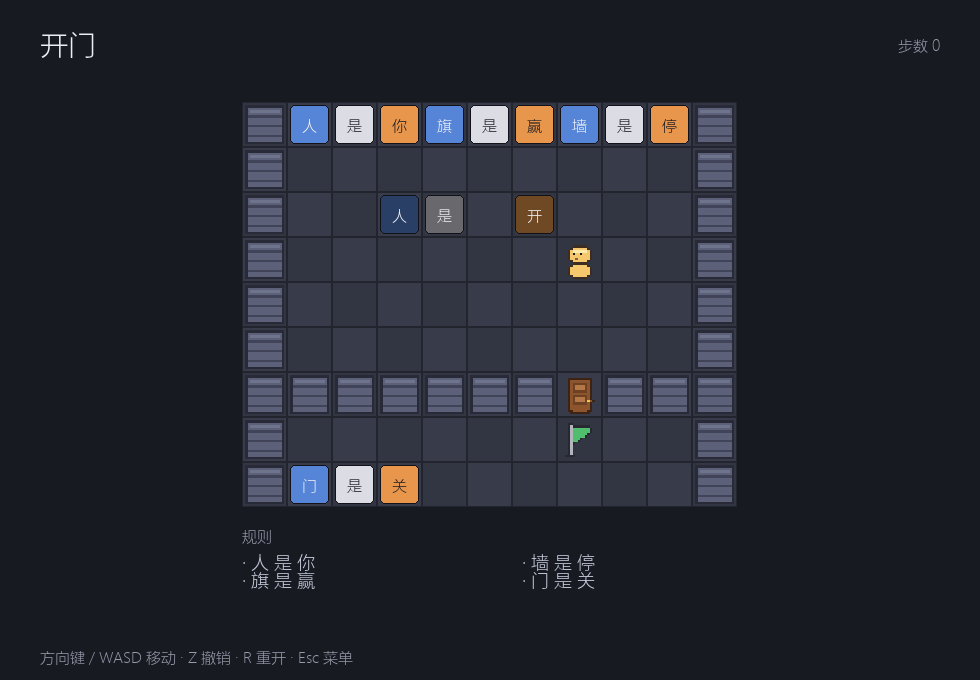
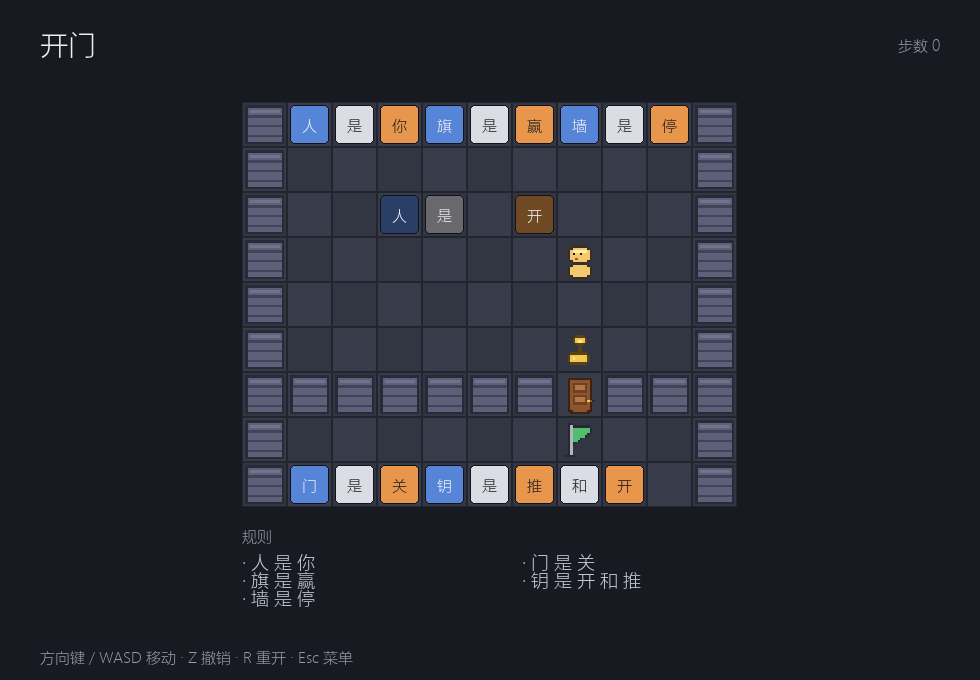
feat: 开与关物件互相抵消

diff --git a/tests/test_doors_teleport.py b/tests/test_doors_teleport.py
@@ -50,17 +50,17 @@ def test_shut_blocks_you_without_open():
     assert not world.can_undo
 
 
-def test_open_you_enters_and_destroys_shut():
+def test_open_you_and_shut_cancel_each_other():
     words = DOOR_RULES + rule(2, "人", "开")
     world = make_world(words=words, objects=[(4, 1, "baba"), (4, 2, "door")])
 
     result = try_move(world, 0, 1)
 
-    assert result.moved and not result.lost
-    assert ids_at(world, 4, 2) == ["baba"]
+    assert result.moved and result.lost
+    assert ids_at(world, 4, 2) == []
 
 
-def test_pushed_open_key_opens_shut():
+def test_pushed_open_key_and_shut_cancel_each_other():
     words = rule(0, "人", "你") + rule2(1, "钥", "推", "开") + rule(2, "门", "关")
     world = make_world(
         words=words, objects=[(4, 1, "baba"), (4, 2, "key"), (4, 3, "door")]
@@ -70,7 +70,7 @@ def test_pushed_open_key_opens_shut():
 
     assert result.moved and not result.lost
     assert world.get(4, 2).id == "baba"
-    assert ids_at(world, 4, 3) == ["key"]
+    assert ids_at(world, 4, 3) == []
 
 
 def test_pushed_box_without_open_stops_at_shut():
@@ -88,7 +88,7 @@ def test_pushed_box_without_open_stops_at_shut():
     assert not world.can_undo
 
 
-def test_open_and_shut_object_does_not_self_destruct():
+def test_open_key_cancels_with_open_shut_door():
     words = (
         rule(0, "人", "你")
         + rule2(1, "钥", "推", "开")
@@ -101,7 +101,7 @@ def test_open_and_shut_object_does_not_self_destruct():
     result = try_move(world, 0, 1)
 
     assert result.moved and not result.lost
-    assert ids_at(world, 4, 3) == ["door", "key"]
+    assert ids_at(world, 4, 3) == []
 
 
 def test_open_you_cancels_pushable_shut():
@@ -110,8 +110,8 @@ def test_open_you_cancels_pushable_shut():
 
     result = try_move(world, 0, 1)
 
-    assert result.moved and not result.lost
-    assert ids_at(world, 4, 2) == ["baba"]
+    assert result.moved and result.lost
+    assert ids_at(world, 4, 2) == []
     assert ids_at(world, 4, 3) == []
 
 
@@ -280,7 +280,7 @@ def test_word_is_not_teleported():
 
 
 def test_open_you_teleports_into_shut_and_breaks_it():
-    """传送先于开/关结算：传进门后面的 OPEN「你」把门毁掉。"""
+    """传送先于开/关结算：传进门后面的 OPEN「你」与门互相抵消。"""
     words = (
         rule(0, "人", "你")
         + rule(1, "人", "开")
@@ -295,9 +295,9 @@ def test_open_you_teleports_into_shut_and_breaks_it():
 
     result = try_move(world, 0, 1)
 
-    assert result.moved and not result.lost
+    assert result.moved and result.lost
     assert ids_at(world, 4, 2) == ["portal"]
-    assert ids_at(world, 4, 5) == ["portal", "baba"]
+    assert ids_at(world, 4, 5) == ["portal"]
 
 
 def test_teleport_resolves_only_once_per_step():

diff --git a/src/rulebox/core/resolve.py b/src/rulebox/core/resolve.py
@@ -110,17 +110,22 @@ def has_defeat_touch(world: World, props: dict[str, set[str]]) -> bool:
 
 
 def _shut_victims(world: World, props: dict[str, set[str]]) -> list[tuple[int, int, Entity]]:
-    """带 OPEN 的格子里，抵消同格的 SHUT 物件；自身也是 OPEN 的不自我抵消。"""
+    """同格的 OPEN 与 SHUT 物件互相抵消；单个物件同时带两种属性时不自我抵消。"""
     victims: list[tuple[int, int, Entity]] = []
+    seen: set[int] = set()
     for row, col in _cells(world):
         cell = world.entities_at(row, col)
-        if not any(has_prop(entity, props, "OPEN") for entity in cell):
+        opens = [entity for entity in cell if has_prop(entity, props, "OPEN")]
+        shuts = [entity for entity in cell if has_prop(entity, props, "SHUT")]
+        if not opens or not shuts:
             continue
-        victims += [
-            (row, col, entity)
-            for entity in cell
-            if has_prop(entity, props, "SHUT") and not has_prop(entity, props, "OPEN")
-        ]
+        involved = opens + shuts
+        for entity in involved:
+            if id(entity) in seen:
+                continue
+            if any(other is not entity for other in involved):
+                seen.add(id(entity))
+                victims.append((row, col, entity))
     return victims
 
 

diff --git a/docs/HANDOFF.md b/docs/HANDOFF.md
@@ -100,7 +100,7 @@ py -3.10 -m venv .venv
 **开/关**
 
 - `SHUT` 阻挡进入和推动；只有带 `OPEN` 的移动方能进入。
-- `OPEN` 物件进入 `SHUT` 格后，同格摧毁 `SHUT`；被推的钥匙也能开门。
+- `OPEN` 与 `SHUT` 同格时双方一起抵消；`OPEN` 物件不会保留。
 - `OPEN`/`SHUT` 同物件不自毁；`STOP` 优先于 `OPEN`。
 - `SHUT + WIN`：没有 `OPEN` 摸不到；有 `OPEN` 直接判胜（胜利短路，门不摧毁）。
 
@@ -192,7 +192,8 @@ py -3.10 -m venv .venv
 
 ### 5.3.12 开/关抵消与自身带赢（已完成）
 
-- 同格 `OPEN` + `SHUT`：抵消 `SHUT`，`OPEN` 物件保留；这是为了不破坏教程 06 的“开门”玩法。
+- 同格 `OPEN` + `SHUT`：双方一起消失；单个物件同时带两种属性且没有对手时不自毁。
+- 教程 06 改成“推钥匙撞门”：钥匙和门一起抵消，Baba 保留；避免 OPEN 的「你」撞门后直接判负。
 - 「你」自身带 `WIN`：操作它移动时直接胜利，不要求走进赢格。
 - 验证：130 passed（OPEN+SHUT 抵消、OPEN 抵消 SHUT+PUSH、YOU+WIN 直胜）。
 
@@ -200,7 +201,7 @@ py -3.10 -m venv .venv
 
 - **04 拆掉规则**：把「停」从「墙 是 停」中推出，规则失效后穿过整排墙；解法 `UDDDD`。
 - **05 过河**：把「浮」推进「人 是」句子，获得浮水能力后过河；解法 `ULDDDR`。
-- **06 开门**：组成「人 是 开」，走进 `SHUT` 门并摧毁它；解法 `ULDDDRDD`。
+- **06 开门**：用法是 `钥 是 推 和 开`，推钥匙撞门，钥匙和门一起抵消；解法 `DDDD`。
 - **07 传送门**：两个 `TELE` 门成对传送，越过整排墙；解法 `RD`。
 - **08 融化**：把带「融」的石头推进火里，石头融化后穿过火；解法 `DDD`。
 - 每关配 `solutions/XX.txt`（`URDL` 字符串），`tests/test_solutions.py` 回放判定通关。

diff --git a/docs/MECHANICS.md b/docs/MECHANICS.md
@@ -155,9 +155,10 @@
 
 ### 7.1 开 / 关
 
-- 格子里同时有 `OPEN` 和 `SHUT`：抵消 `SHUT`，`OPEN` 物件保留。
-- 自身同时带 `OPEN` 和 `SHUT` 的不自毁；`OPEN` 移动方遇到 `SHUT + PUSH` 时优先抵消门，不会把门推走。
-- 因此钥匙被推进门格、门被推进钥匙格、传送把 `OPEN` 送进门格，都会开门。
+- 格子里同时有 `OPEN` 和 `SHUT`：双方一起抵消。
+- 自身同时带 `OPEN` 和 `SHUT` 且没有对手时不自我抵消；`OPEN` 移动方遇到 `SHUT + PUSH` 时优先抵消门，不会把门推走。
+- 因此钥匙被推进门格、门被推进钥匙格、传送把 `OPEN` 送进门格，都会让双方消失。
+- 如果 `OPEN` 的「你」撞门，它也会一起消失；失去最后一个「你」就判负。
 
 ### 7.2 水
 

diff --git a/README.md b/README.md
@@ -1,4 +1,4 @@
-# RuleBox
+# RuleBox
 
 推得动箱子，也推得动规则。
 
@@ -175,7 +175,7 @@ pytest
 | 03 | 路被堵住了？ | 第 2 关地图，箱子下移一格堵住缺口 |
 | 04 | 拆掉规则 | 把「停」推出「墙 是 停」，规则失效后穿过墙 |
 | 05 | 过河 | 把「浮」推进「人 是」句子，获得浮水能力 |
-| 06 | 开门 | 组成「人 是 开」，进入并摧毁关着的门 |
+| 06 | 开门 | 推钥匙撞门，钥匙和门一起抵消 |
 | 07 | 传送门 | 两个传送门成对传送，越过整排墙 |
 | 08 | 融化 | 把带「融」的石头推进火里，清出通道 |
 | 09 | 钥匙 | 先拼出「钥 是 开 和 推」，再推钥匙开门 |

diff --git a/docs/ai-log.md b/docs/ai-log.md
@@ -188,7 +188,7 @@
 
 - 要求：OPEN 物件与 SHUT 物件相碰抵消；操作的物件自身带 WIN 时直接胜利。
 - 产出：`OPEN` 移动方遇 `SHUT + PUSH` 不再推门，改为抵消门；`_move_one` 对自身带 WIN 的 YOU 直接返回胜利。
-- 保持：OPEN 物件保留，避免教程 06“开门”变成自杀；单个 OPEN+SHUT 物件不自毁。
+- 保持：`OPEN` 与 `SHUT` 双方一起消失；教程 06 改成推钥匙撞门，避免 OPEN 的 Baba 撞门后自杀。
 - 验证：130 passed；新增 OPEN+SHUT、OPEN+SHUT+PUSH、YOU+WIN 直胜测试。
 
 ## 待本人补充
